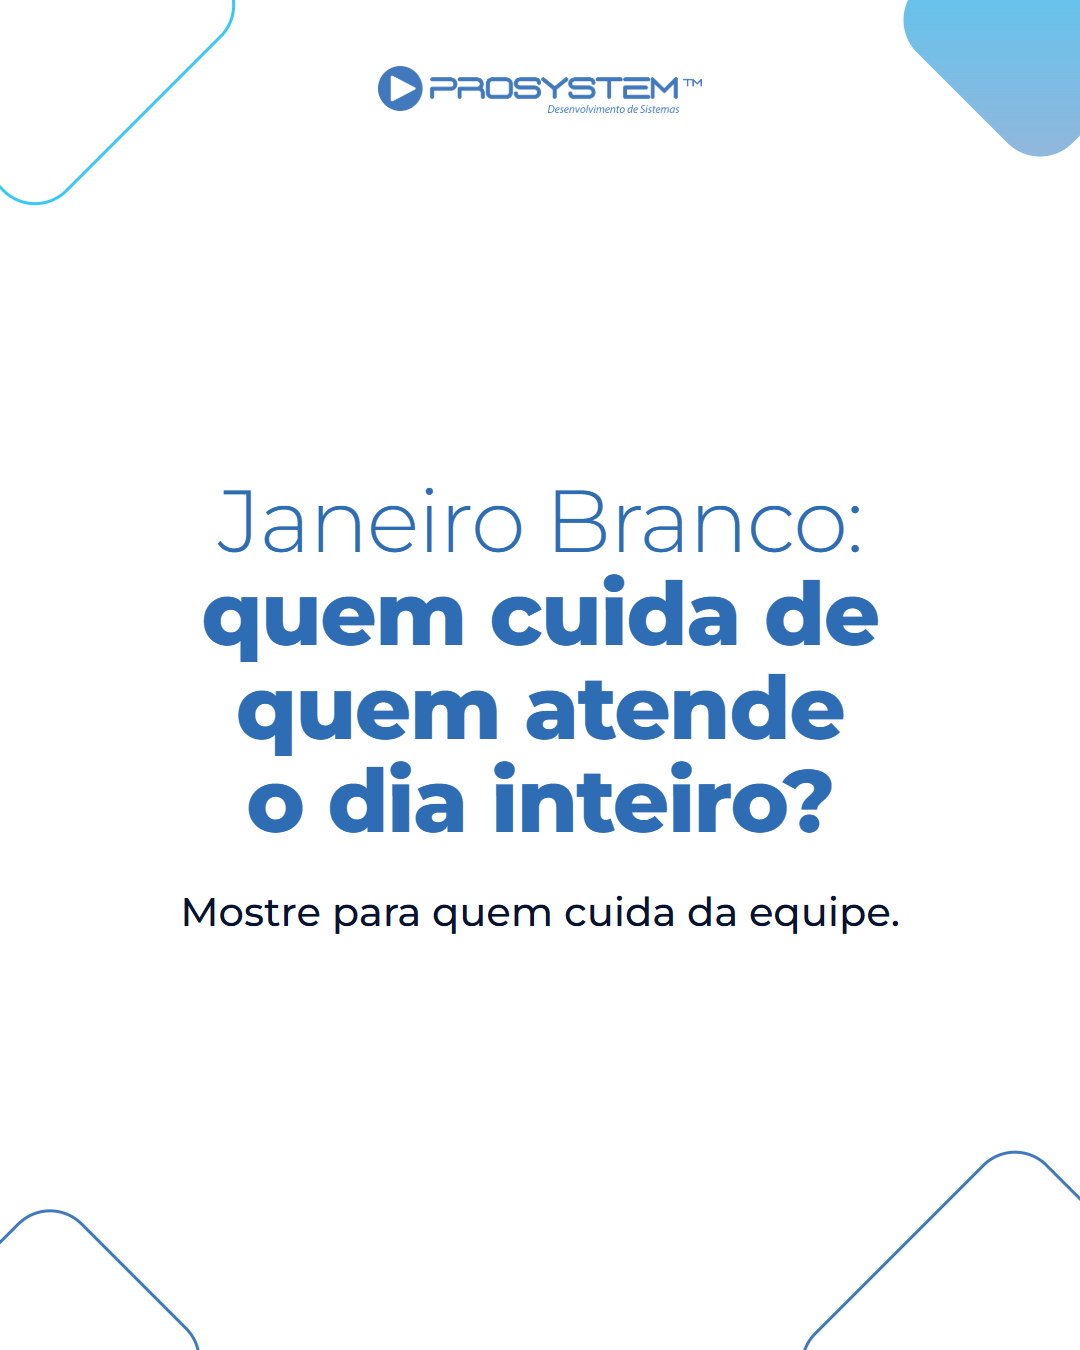
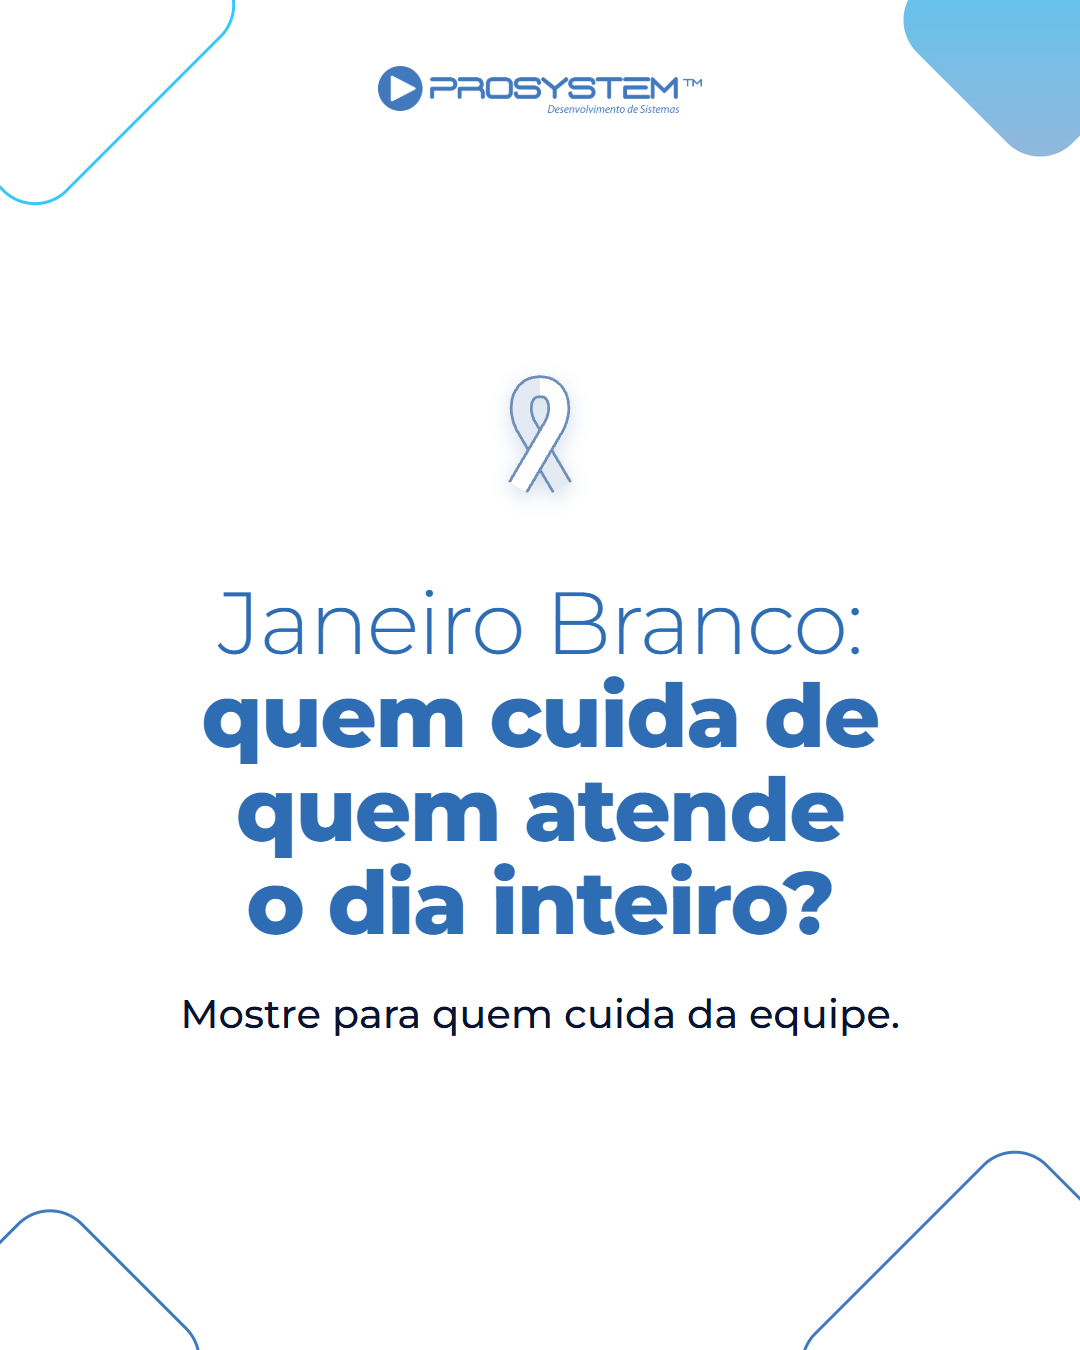
Atualização automática (03/11/2026 15:16): 3 arquivo(s)
Arquivos: outputs/criativos/nov-dez/gerar.js, outputs/criativos/nov-dez/pecas-dados.js, outputs/criativos/nov-dez/pecas/frase-janeiro-branco-v1.png

Changed region(s): [[0.1528, 0.28, 0.825, 0.7156], [0.1528, 0.7467, 0.825, 0.7778]]

diff --git a/outputs/criativos/nov-dez/gerar.js b/outputs/criativos/nov-dez/gerar.js
@@ -104,7 +104,10 @@ function v3(c) {
 
 // Laço vermelho do Dezembro Vermelho, acima do título da frase.
 const LACO_VERMELHO = `<svg viewBox="0 0 100 140" style="width:${px(92)};height:${px(128)};fill:none;stroke-width:17;margin:0 auto ${px(36)};flex:none"><path d="M50 16C29 16 25 40 34 58L74 126" stroke="#a5161d"/><path d="M50 16C71 16 75 40 66 58L26 126" stroke="#d62828"/></svg>`;
-const frase = (c) => [pg(c.tema, 'bra', `${lo(1)}${logo(1)}<div class="frs">${c.laco === 'vermelho' ? LACO_VERMELHO : ''}<h4${c.fs ? ` style="font-size:${px(c.fs)}"` : ''}>${c.titulo}</h4><p>${c.apoio}</p></div>`)];
+// Laço branco do Janeiro Branco: contorno fino por baixo do traço branco, para aparecer no fundo branco.
+const LACO_BRANCO = `<svg viewBox="0 0 100 140" style="width:${px(92)};height:${px(128)};fill:none;stroke-linecap:butt;margin:0 auto ${px(36)};flex:none;filter:drop-shadow(0 ${px(6)} ${px(10)} rgba(15,76,150,.18))"><path d="M50 16C29 16 25 40 34 58L74 126" stroke="#6f8fb8" stroke-width="25"/><path d="M50 16C29 16 25 40 34 58L74 126" stroke="#e3eaf3" stroke-width="19"/><path d="M50 16C71 16 75 40 66 58L26 126" stroke="#6f8fb8" stroke-width="25"/><path d="M50 16C71 16 75 40 66 58L26 126" stroke="#fff" stroke-width="19"/></svg>`;
+const LACOS_FRASE = { vermelho: LACO_VERMELHO, branco: LACO_BRANCO };
+const frase = (c) => [pg(c.tema, 'bra', `${lo(1)}${logo(1)}<div class="frs">${LACOS_FRASE[c.laco] || ''}<h4${c.fs ? ` style="font-size:${px(c.fs)}"` : ''}>${c.titulo}</h4><p>${c.apoio}</p></div>`)];
 // Título, tela, faixa e pílula. Três blocos de texto, como pede o caderno.
 function comTela(c) {
   const cl = c.fundo === 'bra' ? 'bra' : 'forte sob';

diff --git a/outputs/criativos/nov-dez/pecas-dados.js b/outputs/criativos/nov-dez/pecas-dados.js
@@ -322,12 +322,12 @@ ${CTA}`,
   alts: ['Laço vermelho e frase em azul sobre fundo branco: Dezembro Vermelho, no balcão, sigilo também é cuidado.'],
   conferir: ['Data de saúde: a Jessica deve dizer se combina com a marca.'] },
 
-{ data: 'Qua 13/01', seg: 'Os dois', id: 'frase-janeiro-branco-v1', tipo: 'frase', tema: 'azul', formato: 'Frase de impacto', nova: true, semAno: true, fs: 88,
+{ data: 'Qua 13/01', seg: 'Os dois', id: 'frase-janeiro-branco-v1', tipo: 'frase', tema: 'azul', formato: 'Frase de impacto', nova: true, semAno: true, fs: 88, laco: 'branco',
   titulo: 'Janeiro Branco: <b>quem cuida de quem atende o dia inteiro?</b>', apoio: 'Mostre para quem cuida da equipe.',
   kw: '',
   cap: 'Janeiro Branco é o mês de falar de saúde mental, e o balcão também faz parte dessa conversa.\n\nQuem atende o dia inteiro ouve queixa, pressa e problema dos outros. Uma pausa respeitada, uma escala bem feita e uma conversa com a equipe já são um começo.\n\nMostre este post para quem cuida da equipe na sua loja.',
   tags: '#janeirobranco #saudemental #gestaodeequipe',
-  alts: ['Frase em azul sobre fundo branco: Janeiro Branco, quem cuida de quem atende o dia inteiro?'],
+  alts: ['Laço branco e frase em azul sobre fundo branco: Janeiro Branco, quem cuida de quem atende o dia inteiro?'],
   conferir: ['Data de saúde: a Jessica deve dizer se combina com a marca.'] },
 
 { data: 'Sex 15/01', seg: 'Farmácia', id: 'carrossel-farmacia-sncr-v2', tipo: 'v3', tema: 'azul', formato: 'Carrossel V3', nova: true,
